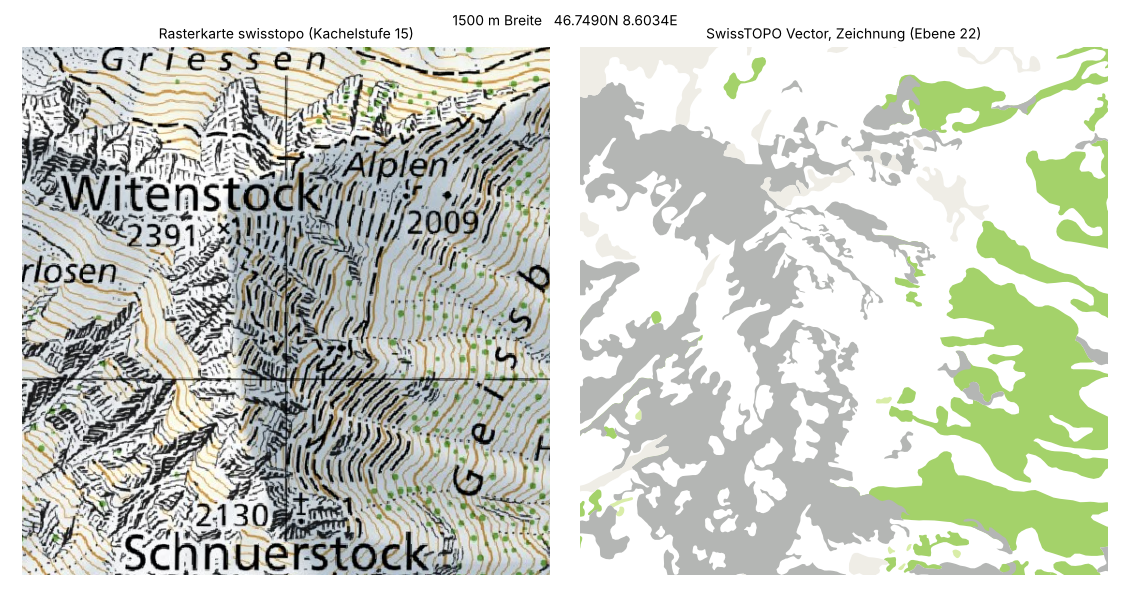
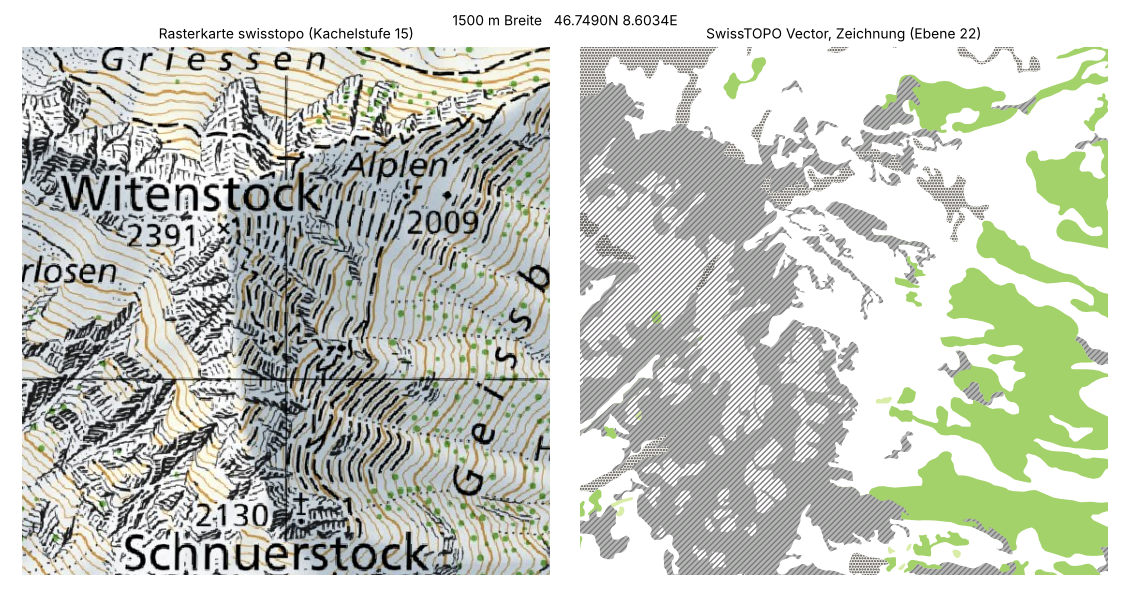
Comparison: draw Fels/Geroell texture; README correction
Claude-Session: https://claude.ai/code/session_01PSYnYYLKVXFpX9ESmrdTMw

diff --git a/scripts/compare_vector.py b/scripts/compare_vector.py
@@ -95,7 +95,12 @@ def draw(w, ax, res):
     if on(20): poly(b[t.isin(["Wald", "Wald offen", "Gebueschwald"])].geometry, WALD, 4)
     if on(22): poly(b[t == "Gehoelzflaeche"].geometry, "#D9EDA8", 3)
     if on(21):
-        poly(b[t.isin(["Fels", "Fels locker"])].geometry, FELS, 4); poly(b[t == "Lockergestein"].geometry, GEROELL, 4)
+        for sel, bgc, fgc, hat in ((t.isin(["Fels", "Fels locker"]), FELS, FELS_TEXTUR, "//////"), (t == "Lockergestein", GEROELL, WEG, "......")):
+            poly(b[sel].geometry, bgc, 4)                       # Textur wie im TYP: kurze dunkle Striche (Fels), Punkte (Geroell)
+            for g in b[sel].geometry:
+                for pp in shapely.get_parts(shapely.force_2d(g)):
+                    if pp.geom_type == "Polygon":
+                        ax.add_patch(PathPatch(Path(np.array(pp.exterior.coords)), fc="none", ec=fgc, hatch=hat, lw=0, zorder=4.5))
     if on(20):
         poly(b[t.isin(["Stehende Gewaesser", "Fliessgewaesser"])].geometry, WASSER_FL, 5); poly(read("STEHENDES_GEWAESSER", bb).geometry, WASSER_FL, 5)
     if on(21):

diff --git a/docs/vergleich/README.md b/docs/vergleich/README.md
@@ -15,4 +15,6 @@ Erzeugt mit `scripts/compare_vector.py <shp-ordner> <präfix> <lon> <lat> <breit
 
 Die Zoomstufen sind angenommen: 400 m = feinste Ebene (24), 1500 m = 22, 5000 m = 20. Einzelbäume, Schutzverbauungen und Treppen erscheinen nur in der feinsten Ebene. Bei welchem Massstab das Gerät die Ebenen wechselt, ist ungeprüft.
 
-Aufgefallen: Felsstriche der Rasterkarte gibt es in den Daten nicht, im Vektor erscheinen Fels und Geröll als graue Flächen. Höhenlinien fehlen hier (eigenes Overlay), ebenso Wanderwege (eigenes Overlay), Bergnamen und Höhenpunkte.
+Fels und Geröll: SwissTOPO Vector hat dafür eine Textur (Fels = graue Fläche mit kurzen dunklen Strichen, Geröll = Punkte), die dem Muster der Garmin-Vektorkarte nachempfunden ist. Die Zeichnung deutet sie nur mit Schraffur an; auf dem Gerät sieht sie anders aus (ungeprüft). Die Striche der Rasterkarte, die der Geländeform folgen, gibt es in den Daten nicht.
+
+Es fehlen hier: Höhenlinien und Wanderwege (eigene Overlays), Bergnamen, Höhenpunkte.
